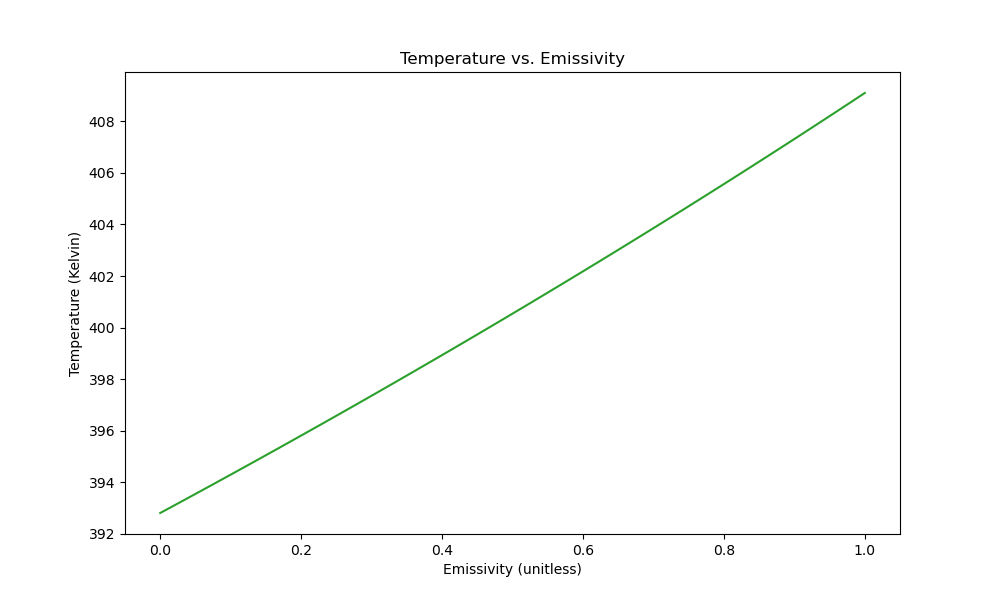
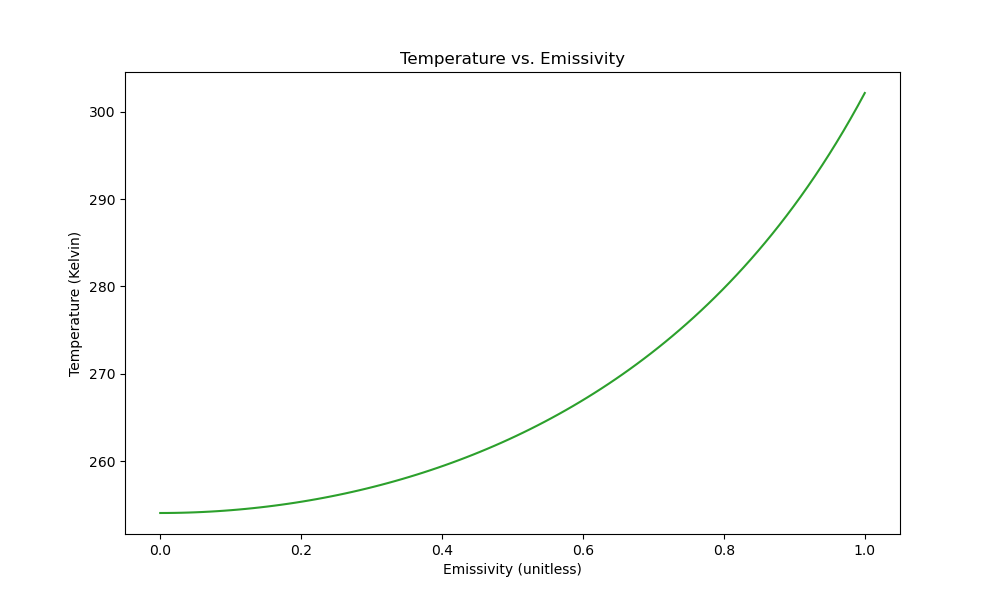
fixed model!!!

diff --git a/lab3.py b/lab3.py
@@ -18,7 +18,7 @@ def initialize_array(nlayers, epsilon, ground_epsilon, solar_flux, debug=False):
     ground_epsilon: float
         The albedo value 
     solar_flux: float
-        The value of solar irradiance
+        The value of solar irradiance [W/m^2]
     debug: boolean
         Whether this is a debugging run
 
@@ -39,6 +39,8 @@ def initialize_array(nlayers, epsilon, ground_epsilon, solar_flux, debug=False):
             if j == 0:
                 if i == 0:
                     A[i,j] = -1
+                elif i == 1:
+                    A[i, j] = epsilon
                 elif i == nlayers:
                     A[i,j] = ground_epsilon*pow(1 - epsilon, abs(j - i) - 1)
                 else:
@@ -49,7 +51,9 @@ def initialize_array(nlayers, epsilon, ground_epsilon, solar_flux, debug=False):
                 A[i,j] = epsilon * pow(1 - epsilon, abs(j - i) - 1)
             if debug:
                 print(f'A[i={i},j={j}] = {A[i, j]}')
-    b[0] = -1 * solar_flux
+    b[0] = -1/4 * (1-ground_epsilon) * solar_flux
+    if debug:
+        print(A)
     return A, b
 
 def solve_equation(A, b):
@@ -173,9 +177,19 @@ def problem_three():
     answers = []
     for i in range(len(layers)):
         temps[i] = solve_model(layers[i], emissivity, albedo, s_flux)[0]
-        if abs(temps[i] - 288) < 10:
-            answers.append(layers[i])
+        try:
+           if abs(temps[i] - 288) < 10:
+                print(layers[i])
+                answers.append(layers[i])
+        except IndexError:
+            print("No solutions found")
 
+    fig, axes = plt.subplots(1, 1, figsize=(10, 6))
+    axes.plot(layers, temps, ls='solid',color='C2')
+    axes.set_title('Number of Layers vs. Temperature')
+    axes.set_xlabel('Number of Layers')
+    axes.set_ylabel('Temperature (Kelvin)')
+    fig.savefig("lab3_3_part2")
     # The first value in layers should be the minimum number of layers needed
     answer = answers[0]
 
@@ -196,7 +210,7 @@ def problem_three():
     axes.set_title("Altitude vs. Temperature")
     axes.set_xlabel('Altitude (miles)')
     axes.set_ylabel('Temperature (Kelvin)')
-    fig.savefig("lab3_3_part2")
+    fig.savefig("lab3_3_part3")
 def problem_four():
     '''
     Solves problem four of the assignment.
